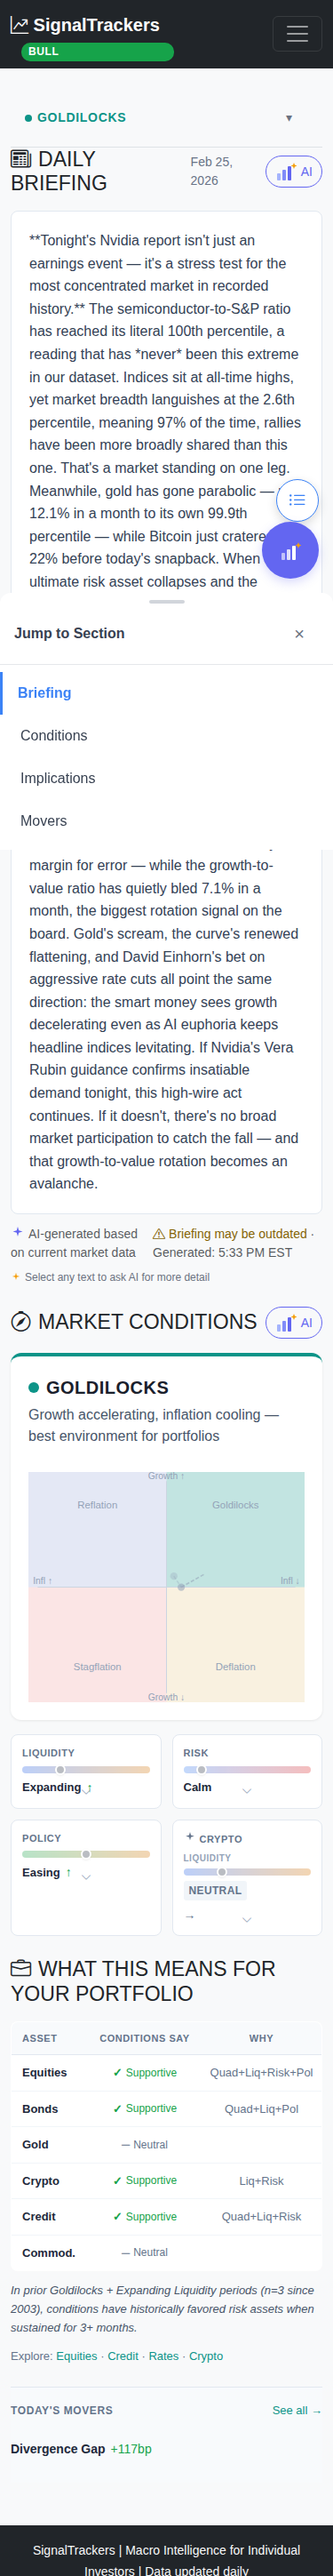
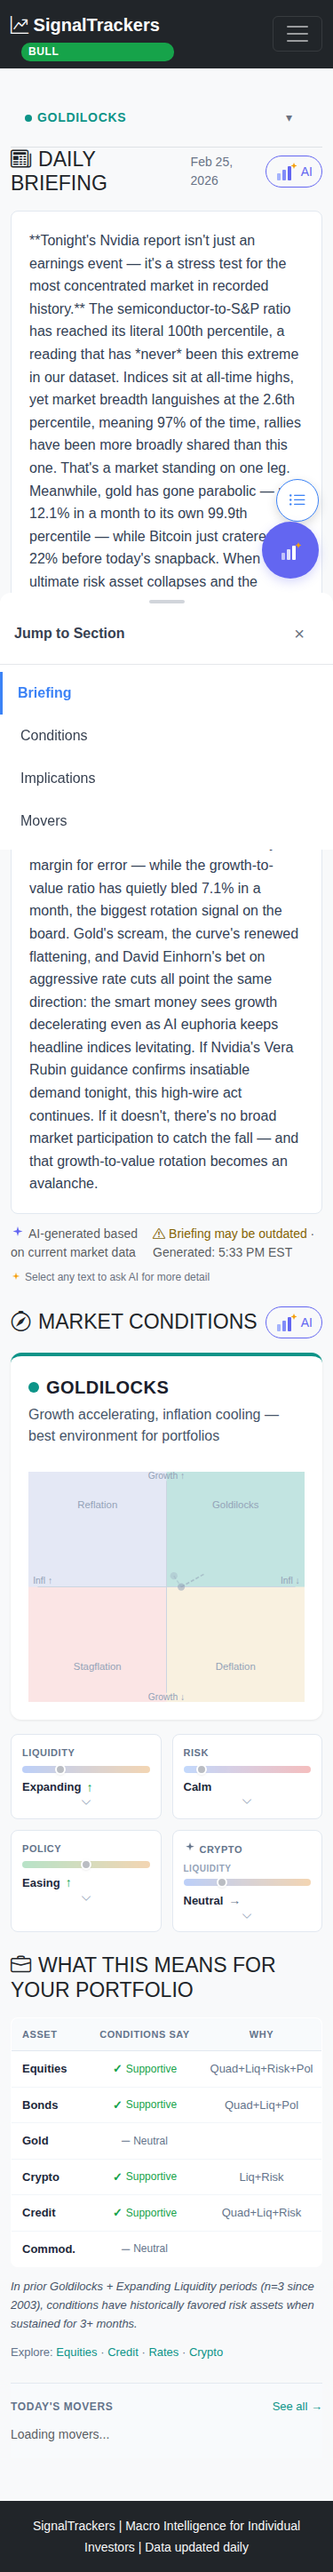
Fix QA issues: crypto card badge styling + chevron positioning
- Crypto card: replaced pill/badge styling with plain text matching
  other dimension cards (uses dimension-card__state class)
- Crypto card: removed flex-direction:column override so state label
  and arrow render inline like other cards
- Chevron: added right:auto and increased header padding-bottom to
  ensure clear bottom-center positioning on all four cards
- Removed unused crypto-label CSS classes

Addresses QA feedback on #339

diff --git a/signaltrackers/static/css/components/conditions-summary.css b/signaltrackers/static/css/components/conditions-summary.css
@@ -387,7 +387,7 @@
     display: flex;
     flex-direction: column;
     gap: 0.375rem;
-    padding: 0.75rem;
+    padding: 0.75rem 0.75rem 1.5rem;
     width: 100%;
     border: none;
     background: transparent;
@@ -399,7 +399,7 @@
 
 @media (min-width: 1024px) {
     .dimension-card__header {
-        padding: 1rem;
+        padding: 1rem 1rem 1.5rem;
     }
 }
 
@@ -436,6 +436,7 @@
     position: absolute;
     bottom: 0.5rem;
     left: 50%;
+    right: auto;
     transform: translateX(-50%);
     color: #94A3B8;
     font-size: 0.75rem;
@@ -446,32 +447,7 @@
     transform: translateX(-50%) rotate(180deg);
 }
 
-/* Crypto card specific */
-.dimension-card__summary--crypto {
-    flex-direction: column;
-    align-items: flex-start;
-}
-
-.dimension-card__crypto-label {
-    font-size: 0.75rem;
-    font-weight: 700;
-    text-transform: uppercase;
-    letter-spacing: 0.03em;
-    padding: 2px 6px;
-    border-radius: 3px;
-}
-.dimension-card__crypto-label--positive {
-    color: var(--quadrant-goldilocks);
-    background: #CCFBF1;
-}
-.dimension-card__crypto-label--negative {
-    color: #DC2626;
-    background: #FEE2E2;
-}
-.dimension-card__crypto-label--neutral {
-    color: #64748B;
-    background: #F1F5F9;
-}
+/* Crypto card — inherits standard .dimension-card__summary layout */
 
 /* ── Expand Panel ────────────────────────────────────────────── */
 

diff --git a/signaltrackers/templates/index.html b/signaltrackers/templates/index.html
@@ -497,7 +497,7 @@
                             <div class="spectrum-bar__marker" style="left: {{ _liq_pct }}%"></div>
                         </div>
                     </div>
-                    <span class="dimension-card__crypto-label dimension-card__crypto-label--{{ _crypto_direction }}">{{ _crypto_label }}</span>
+                    <span class="dimension-card__state">{{ _crypto_label }}</span>
                     <span class="dimension-card__arrow dimension-card__arrow--{{ 'up' if _crypto_direction == 'positive' else ('down' if _crypto_direction == 'negative' else 'flat') }}">{{ _crypto_arrow }}</span>
                 </div>
                 <i class="bi bi-chevron-down dimension-card__chevron" aria-hidden="true"></i>
